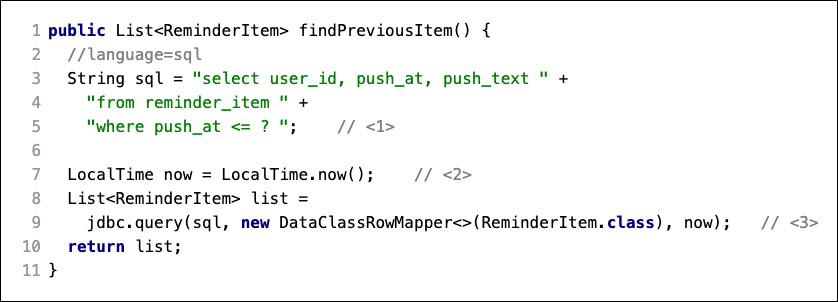
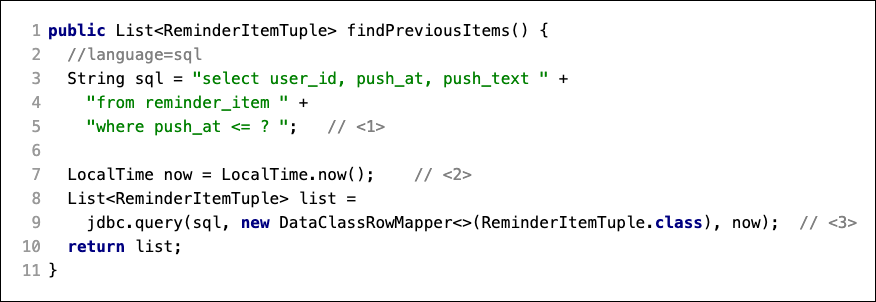
LineBotがリマインダを送れる様に修正

diff --git a/src/main/java/com/example/linebot/service/ReminderService.java b/src/main/java/com/example/linebot/service/ReminderService.java
@@ -3,6 +3,7 @@ package com.example.linebot.service;
 import com.example.linebot.replier.RemindOn;
 import com.example.linebot.repository.ReminderRepository;
 import com.example.linebot.value.ReminderItem;
+import com.example.linebot.value.ReminderItemTuple;
 import com.example.linebot.value.ReminderSlot;
 import com.linecorp.bot.model.PushMessage;
 import com.linecorp.bot.model.event.MessageEvent;
@@ -38,19 +39,19 @@ public class ReminderService {
   }
 
   public List<PushMessage> doPushReminderItems() {
-    List<ReminderItem> previousItems = repository.findPreviousItem();
+    List<ReminderItemTuple> previousItems = repository.findPreviousItems();
     List<PushMessage> pushMessages = new ArrayList<>();
     // 本来であればUserIdごとにPushMessageをまとめるべきだが、授業レベルなので簡略化している
-    for (ReminderItem item : previousItems) {
+    for (ReminderItemTuple item : previousItems) {
       PushMessage pushMessage = toPushMessage(item);
       pushMessages.add(pushMessage);
     }
     return pushMessages;
   }
 
-  private PushMessage toPushMessage(ReminderItem item) {
+  private PushMessage toPushMessage(ReminderItemTuple item) {
     String userId = item.getUserId();
-    String pushText = item.getSlot().getPushText();
+    String pushText = item.getPushText();
     String body = String.format("%s の時間です！", pushText);
     return new PushMessage(userId, new TextMessage(body));
   }

diff --git a/src/test/java/com/example/linebot/repository/ReminderRepositoryTest.java b/src/test/java/com/example/linebot/repository/ReminderRepositoryTest.java
@@ -1,6 +1,6 @@
 package com.example.linebot.repository;
 
-import com.example.linebot.value.ReminderItem;
+import com.example.linebot.value.ReminderItemTuple;
 import org.junit.jupiter.api.Test;
 import org.springframework.beans.factory.annotation.Autowired;
 import org.springframework.boot.test.context.SpringBootTest;
@@ -8,7 +8,6 @@ import org.springframework.boot.test.context.SpringBootTest;
 import java.util.List;
 
 import static org.junit.jupiter.api.Assertions.assertEquals;
-import static org.junit.jupiter.api.Assertions.fail;
 
 @SpringBootTest
 public class ReminderRepositoryTest {
@@ -22,8 +21,11 @@ public class ReminderRepositoryTest {
 
   @Test
   void test() {
-    List<ReminderItem> previousItem = sut.findPreviousItem();
-    assertEquals(0, previousItem.size());
+    List<ReminderItemTuple> previousItems = sut.findPreviousItems();
+    ReminderItemTuple reminderItemTuple = previousItems.get(0);
+    System.out.println(reminderItemTuple);
+    assertEquals(0, previousItems.size());
   }
+
 
 }

diff --git a/src/main/java/com/example/linebot/repository/ReminderRepository.java b/src/main/java/com/example/linebot/repository/ReminderRepository.java
@@ -1,6 +1,7 @@
 package com.example.linebot.repository;
 
 import com.example.linebot.value.ReminderItem;
+import com.example.linebot.value.ReminderItemTuple;
 import com.example.linebot.value.ReminderSlot;
 import org.springframework.beans.factory.annotation.Autowired;
 import org.springframework.jdbc.core.DataClassRowMapper;
@@ -31,15 +32,16 @@ public class ReminderRepository {
     jdbc.update(sql, userId, slot.getPushAt(), slot.getPushText());
   }
 
-  public List<ReminderItem> findPreviousItem() {
+  public List<ReminderItemTuple> findPreviousItems() {
     //language=sql
     String sql = "select user_id, push_at, push_text " +
       "from reminder_item " +
       "where push_at <= ? ";
 
     LocalTime now = LocalTime.now();
-    List<ReminderItem> list = jdbc.query(sql, new DataClassRowMapper<>(ReminderItem.class), now);
+    List<ReminderItemTuple> list = jdbc.query(sql, new DataClassRowMapper<>(ReminderItemTuple.class), now);
     return list;
   }
+
 
 }

diff --git a/src/main/java/com/example/linebot/Push.java b/src/main/java/com/example/linebot/Push.java
@@ -65,9 +65,9 @@ public class Push {
   @Scheduled(cron = "0 */1 * * * *", zone = "Asia/Tokyo")
   public void pushReminder() {
     try {
-      List<PushMessage> pushMessages = reminderService.doPushReminderItems();
-      for (PushMessage pushMessage : pushMessages) {
-        BotApiResponse resp = messagingClient.pushMessage(pushMessage).get();
+      List<PushMessage> messages = reminderService.doPushReminderItems();
+      for (PushMessage message : messages) {
+        BotApiResponse resp = messagingClient.pushMessage(message).get();
         log.info("Sent messages: {}", resp);
       }
     } catch (InterruptedException | ExecutionException e) {

diff --git a/src/main/java/com/example/linebot/value/ReminderItem.java b/src/main/java/com/example/linebot/value/ReminderItem.java
@@ -1,7 +1,5 @@
 package com.example.linebot.value;
 
-import java.time.LocalTime;
-
 public class ReminderItem {
 
   private final String userId;
@@ -10,16 +8,6 @@ public class ReminderItem {
   public ReminderItem(String userId, ReminderSlot slot) {
     this.userId = userId;
     this.slot = slot;
-  }
-
-  public ReminderItem() {
-    this.userId = null;
-    this.slot = null;
-  }
-
-  public ReminderItem(String userId, LocalTime push_at, String push_text) {
-    this.userId = userId;
-    this.slot = new ReminderSlot(push_at, push_text);
   }
 
   public String getUserId() {

diff --git a/src/main/java/com/example/linebot/value/ReminderItemTuple.java b/src/main/java/com/example/linebot/value/ReminderItemTuple.java
@@ -1,0 +1,28 @@
+package com.example.linebot.value;
+
+import java.time.LocalTime;
+
+public class ReminderItemTuple {
+
+  private final String userId;
+  private final LocalTime pushAt;
+  private final String pushText;
+
+  public ReminderItemTuple(String userId, LocalTime pushAt, String pushText) {
+    this.userId = userId;
+    this.pushAt = pushAt;
+    this.pushText = pushText;
+  }
+
+  public String getUserId() {
+    return userId;
+  }
+
+  public LocalTime getPushAt() {
+    return pushAt;
+  }
+
+  public String getPushText() {
+    return pushText;
+  }
+}

diff --git a/src/main/java/com/example/linebot/value/ReminderSlot.java b/src/main/java/com/example/linebot/value/ReminderSlot.java
@@ -29,16 +29,6 @@ public class ReminderSlot {
     }
   }
 
-  public ReminderSlot() {
-    this.pushAt = null;
-    this.pushText = null;
-  }
-
-  public ReminderSlot(LocalTime pushAt, String pushText) {
-    this.pushAt = pushAt;
-    this.pushText = pushText;
-  }
-
   public LocalTime getPushAt() {
     return pushAt;
   }
